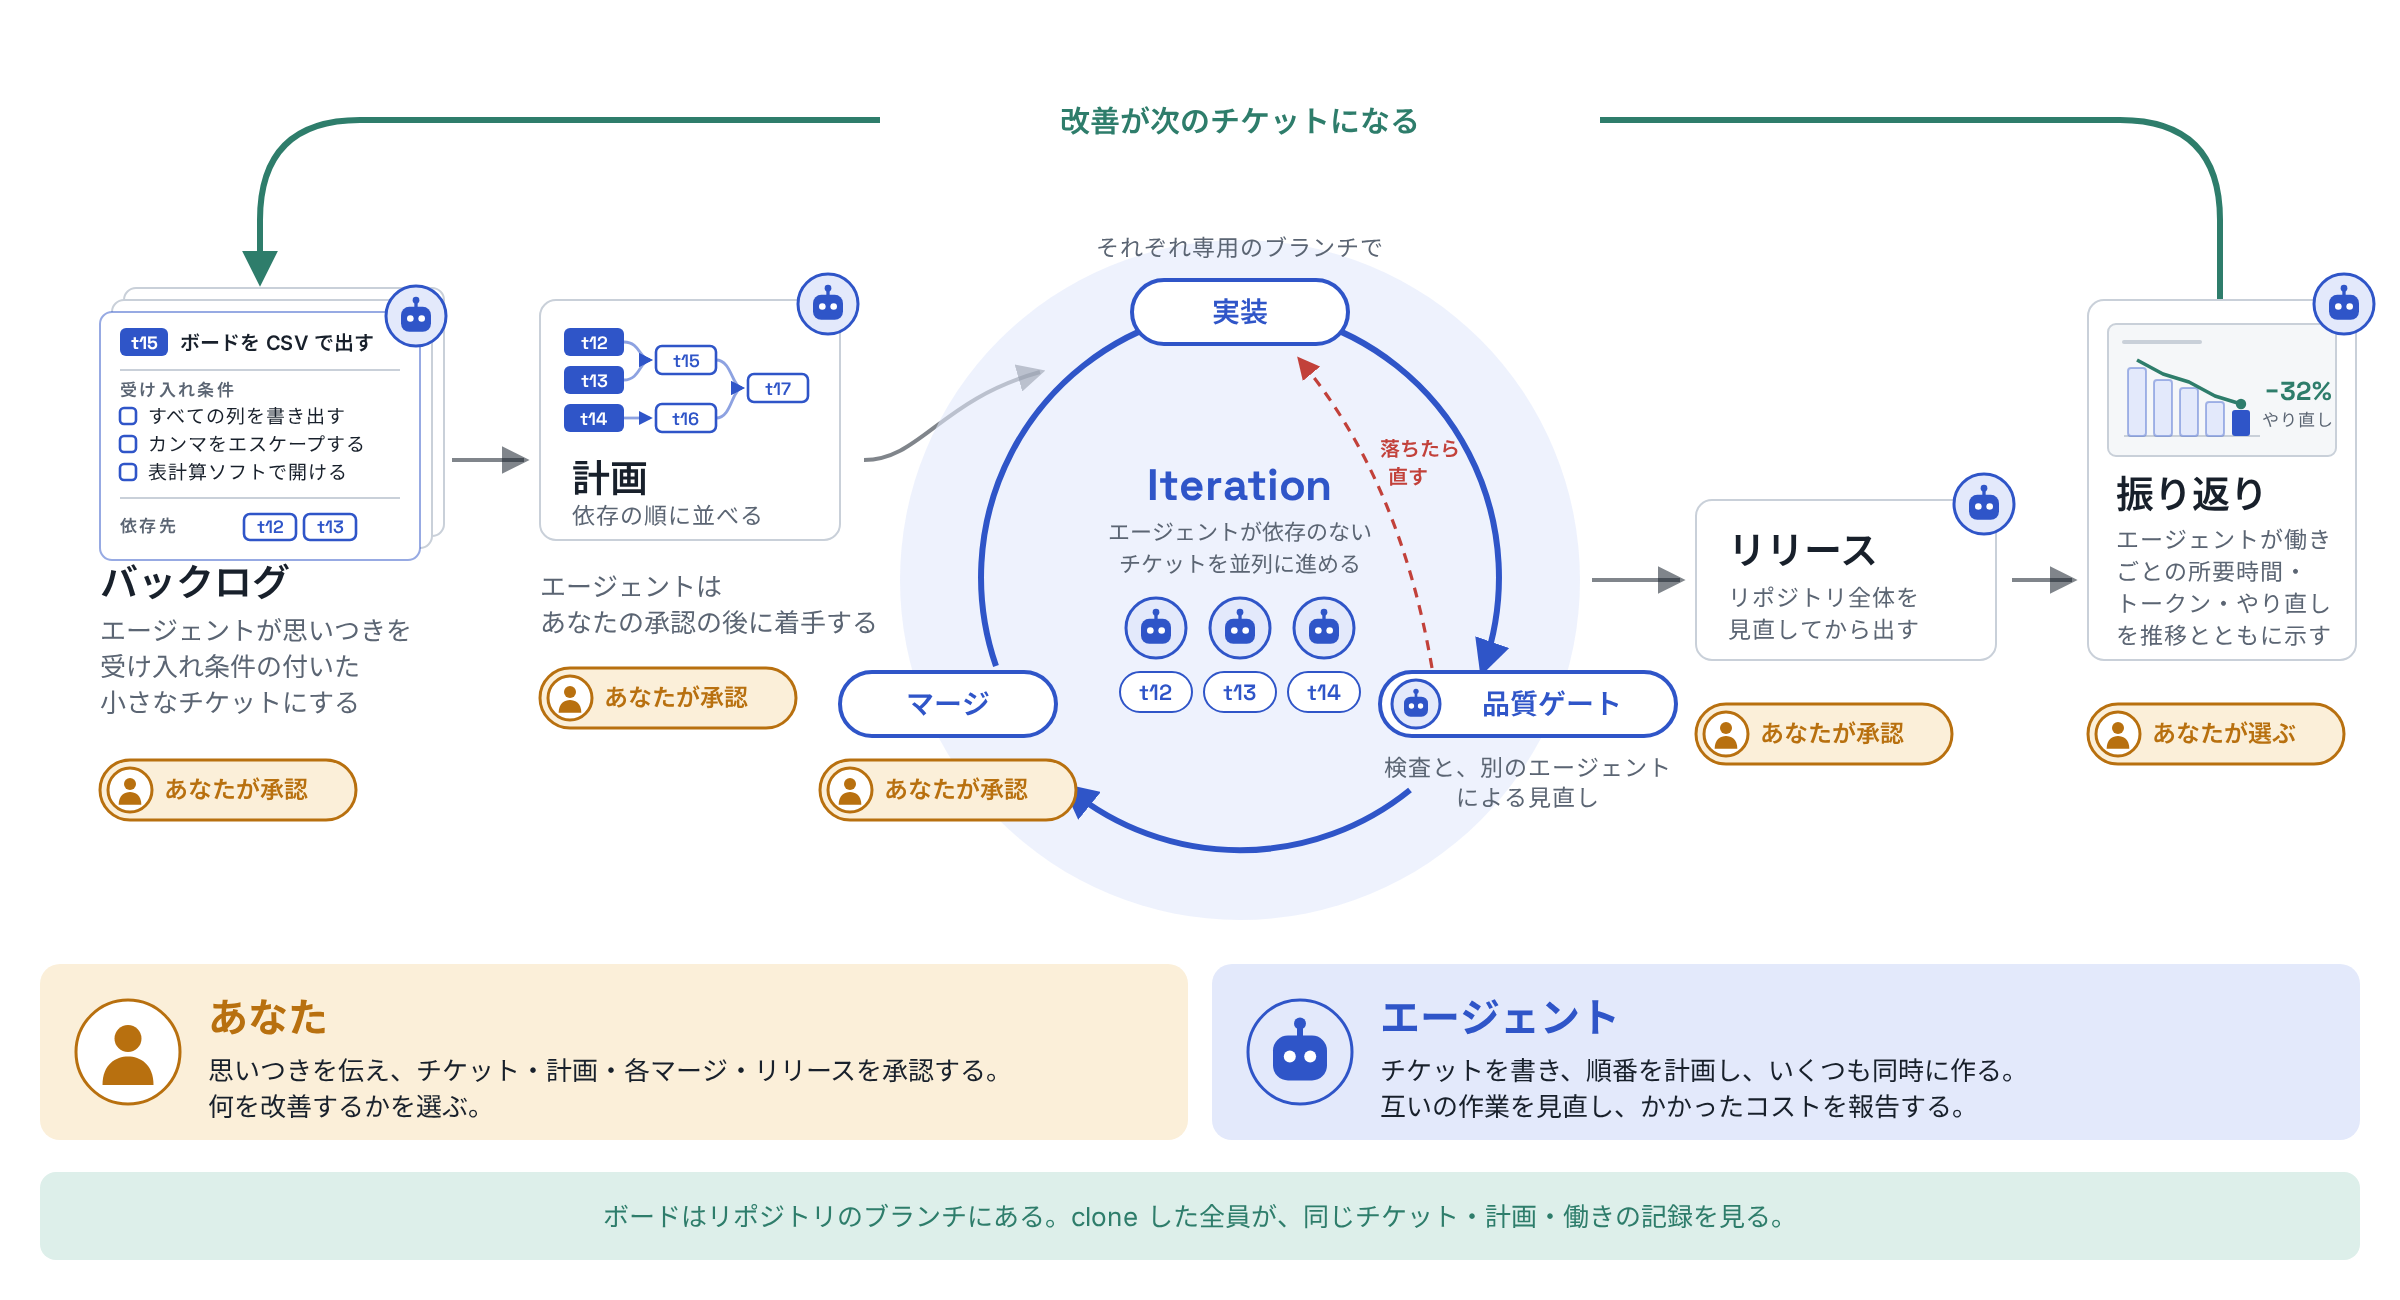
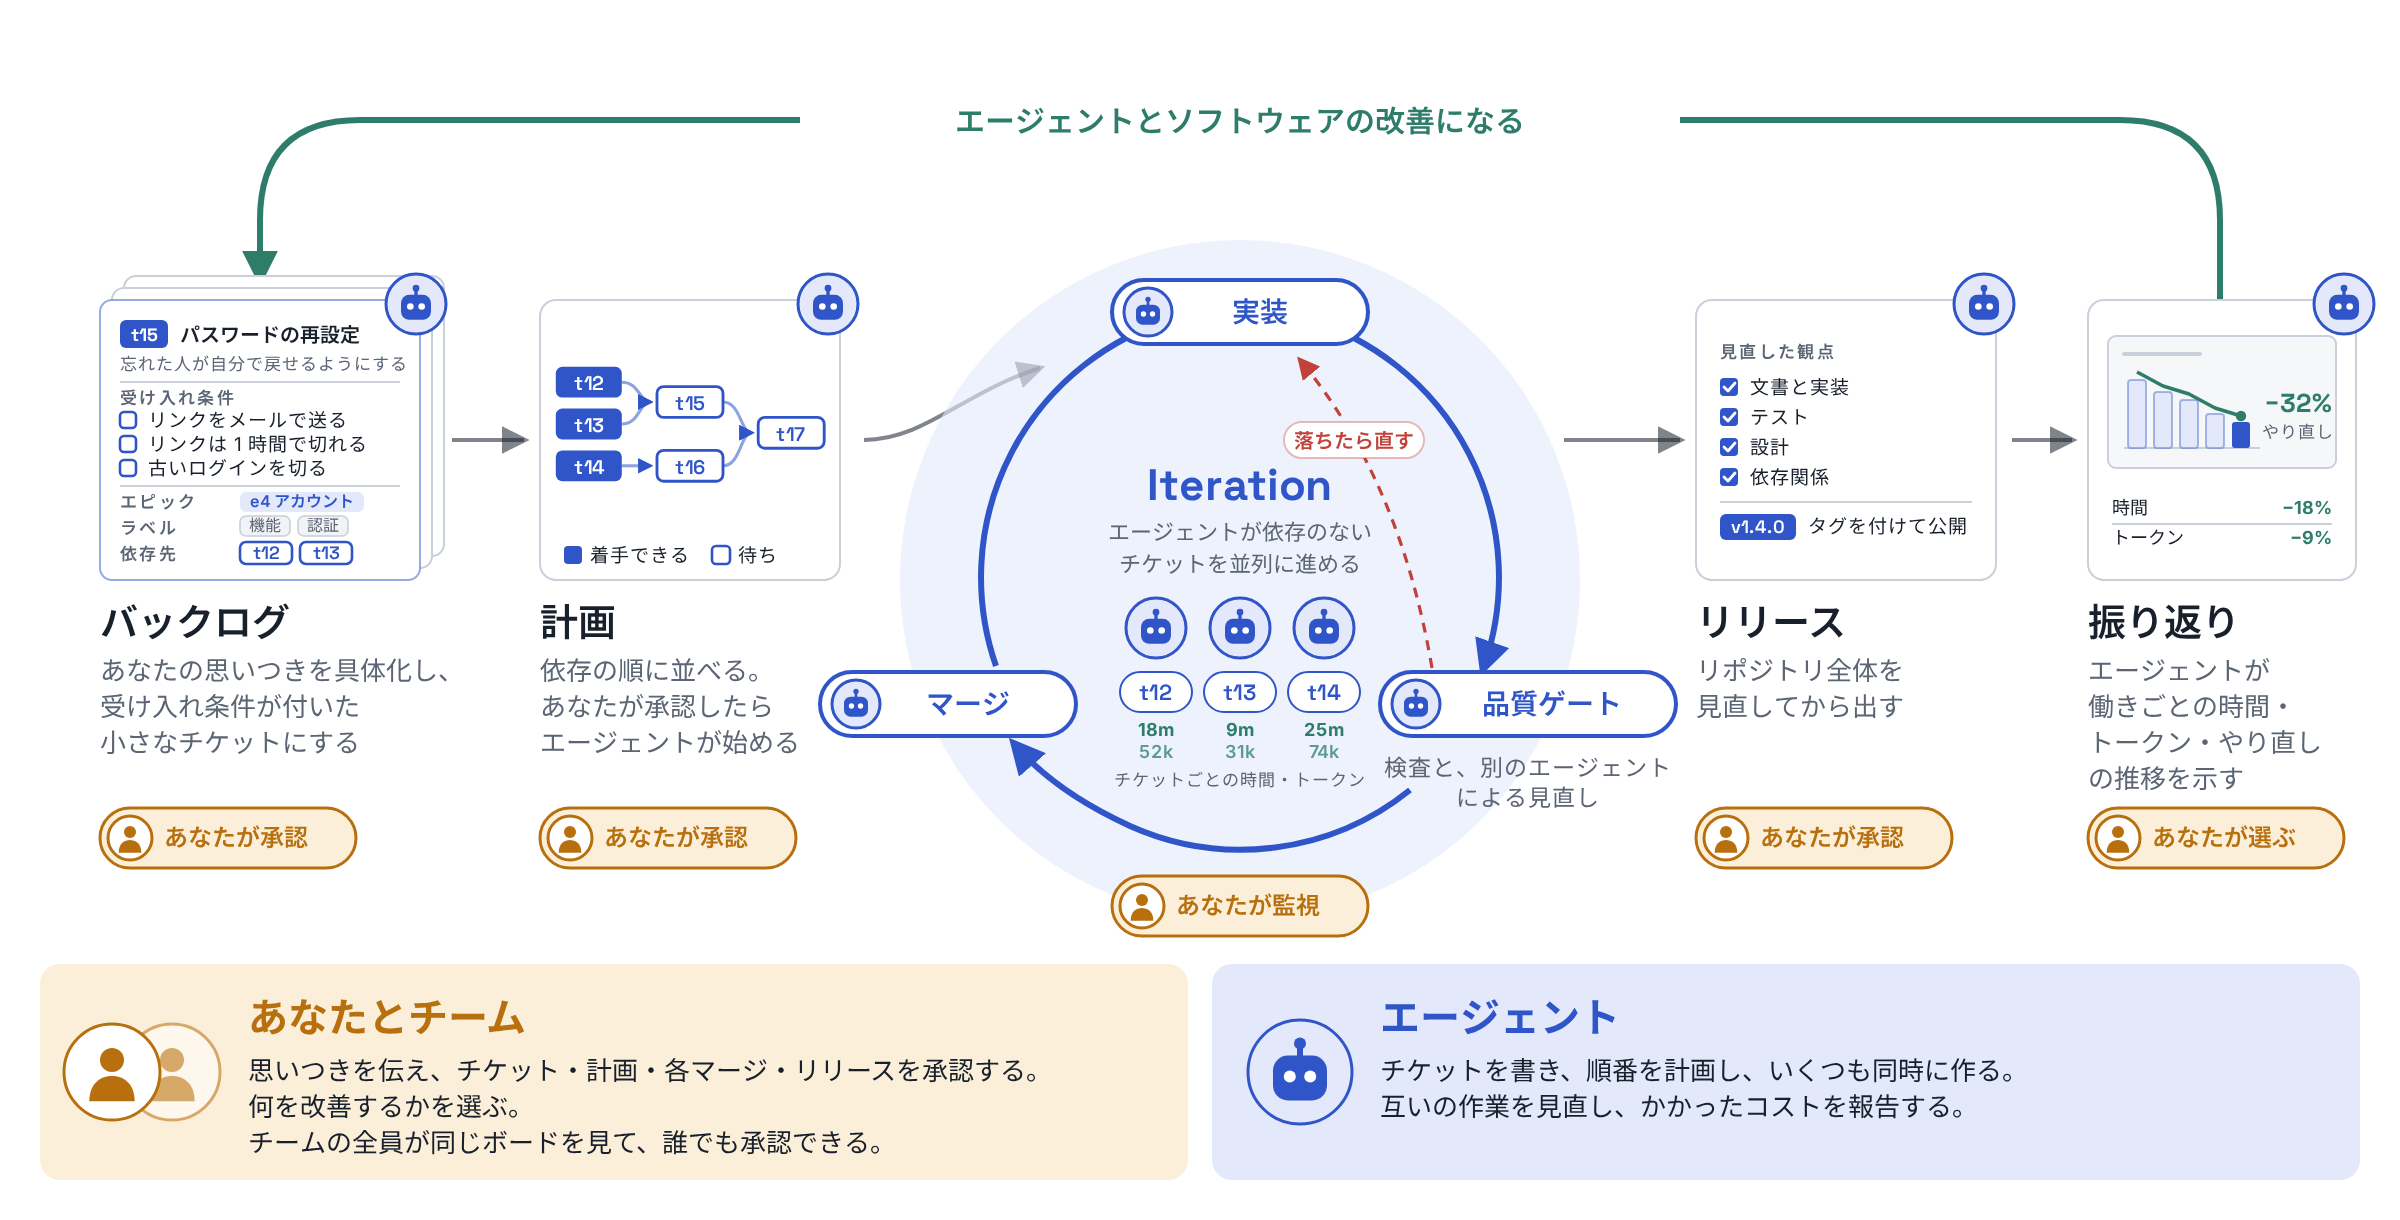
README の開発フロー図を、チームと監視の印を入れて 4 段をそろえた図に差し替える（t853）
flow.svg・flow.ja.svg を確認用ページの案に差し替え、撮り方の画面の大きさを
viewBox と同じ 1200×610 にして flow.png・flow.ja.png を撮り直す。
README と README.ja.md の図の alt と SVG の title・desc を新しい図に合わせる。

diff --git a/README.md b/README.md
@@ -8,7 +8,7 @@ A kanban board inside your Git repository for building software together with AI
 - **Made for teams**: The board lives on a dedicated branch of your repository, so everyone who clones it sees the same board. There is no server or service to run.
 - **Measure and improve**: Each run records how long each step took, how many tokens it used, and how much rework it needed, and the metrics your team approved show their trend, so the bottlenecks become the next tickets.
 
-<img src="https://raw.githubusercontent.com/brainpad-whiterabbit/deguboard/main/packages/vscode/images/flow.png" alt="The development flow: an agent turns your idea into tickets, plans the order, and agents work in parallel through the quality gate in each Iteration, then release and retrospect; you approve the tickets, the plan, each merge, and the release, and choose what to improve" width="800">
+<img src="https://raw.githubusercontent.com/brainpad-whiterabbit/deguboard/main/packages/vscode/images/flow.png" alt="The development flow: an agent turns your idea into tickets and plans the order, agents work in parallel through the quality gate in each Iteration and report the time and tokens per ticket, then release and retrospect; your whole team sees the same board, and you approve the tickets, the plan, and the release, monitor the Iteration, and choose what to improve" width="800">
 
 deguboard is an independent project. It is not made, endorsed, or supported by Microsoft.
 
